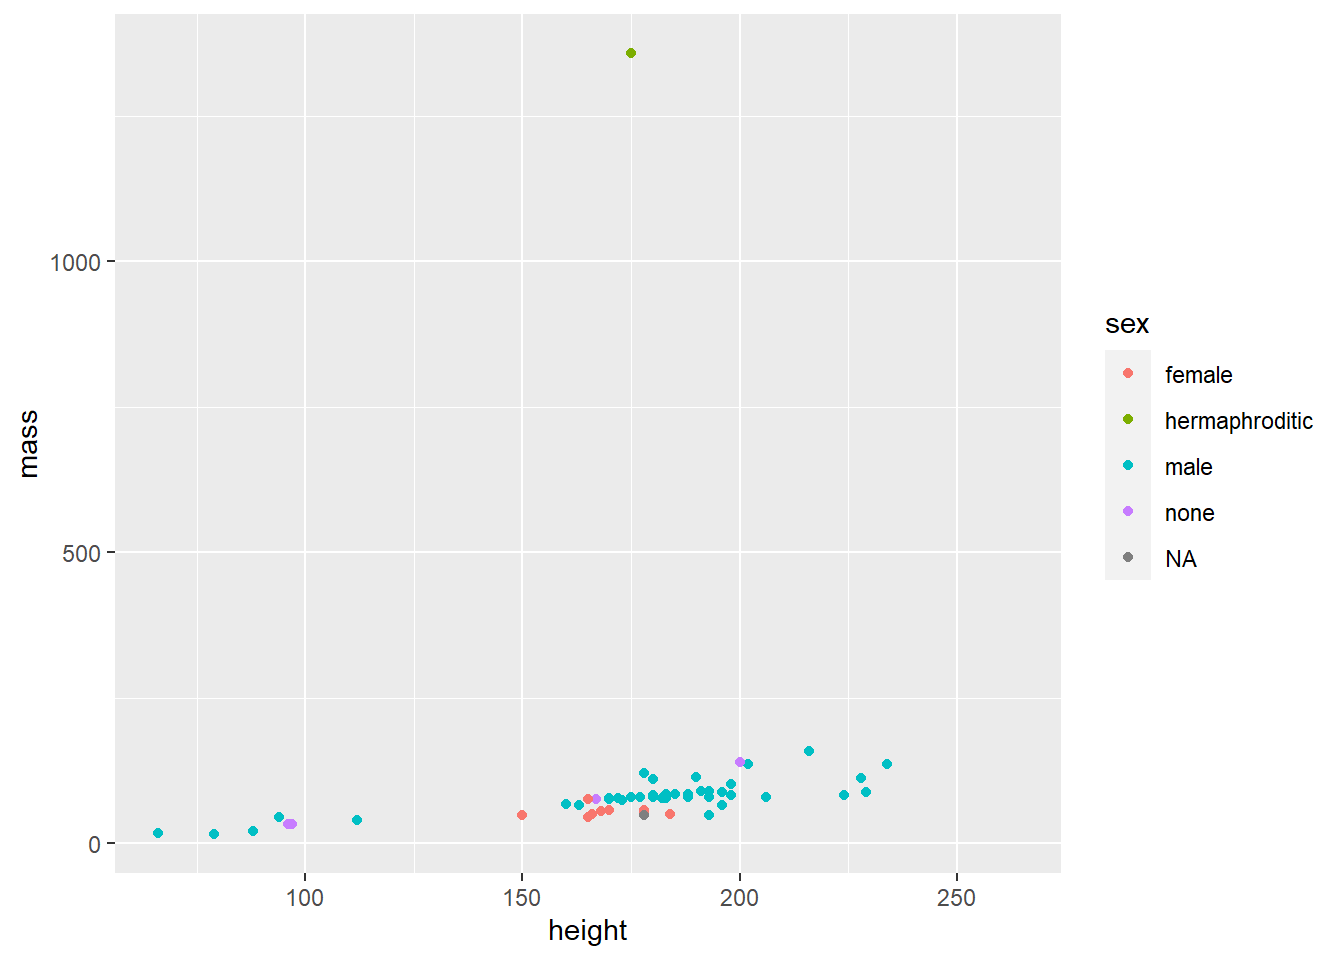
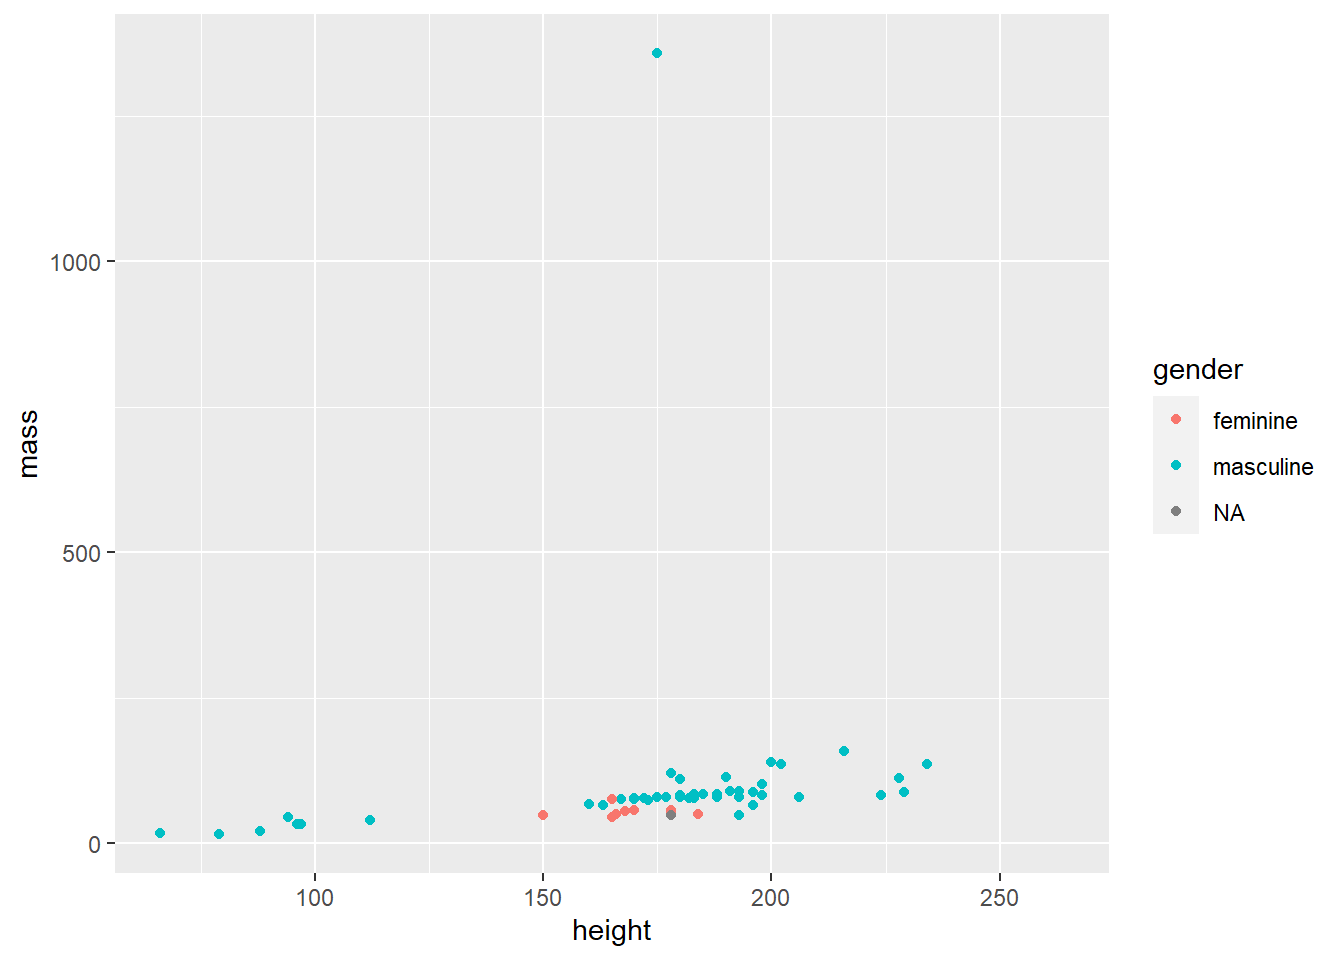
lol

diff --git a/eds-212-day5-session1-q.html b/eds-212-day5-session1-q.html
@@ -148,13 +148,44 @@ pre > code.sourceCode > span > a:first-child::before { text-decoration: underlin
 <details>
 <summary>Show me the code!</summary>
 <div class="sourceCode cell-code" id="cb7"><pre class="sourceCode r code-with-copy"><code class="sourceCode r"><span id="cb7-1"><a href="#cb7-1" aria-hidden="true" tabindex="-1"></a><span class="fu">ggplot</span>(<span class="at">data =</span> starwars, <span class="fu">aes</span>(<span class="at">x =</span> height, <span class="at">y =</span> mass)) <span class="sc">+</span></span>
-<span id="cb7-2"><a href="#cb7-2" aria-hidden="true" tabindex="-1"></a>  <span class="fu">geom_point</span>(<span class="fu">aes</span>(<span class="at">color =</span> sex))</span></code><button title="Copy to Clipboard" class="code-copy-button"><i class="bi"></i></button></pre></div>
+<span id="cb7-2"><a href="#cb7-2" aria-hidden="true" tabindex="-1"></a>  <span class="fu">geom_point</span>(<span class="fu">aes</span>(<span class="at">color =</span> gender))</span></code><button title="Copy to Clipboard" class="code-copy-button"><i class="bi"></i></button></pre></div>
 </details>
 <div class="cell-output-display">
 <p><img src="eds-212-day5-session1-q_files/figure-html/unnamed-chunk-5-1.png" class="img-fluid" width="672"></p>
 </div>
 </div></li>
 </ul>
+<section id="calculate-summary-statistics" class="level2">
+<h2 class="anchored" data-anchor-id="calculate-summary-statistics">Calculate summary statistics</h2>
+<p>use mean() function to find means</p>
+<p>use std() to find standard deviation</p>
+<div class="cell">
+<details>
+<summary>Show me the code!</summary>
+<div class="sourceCode cell-code" id="cb8"><pre class="sourceCode r code-with-copy"><code class="sourceCode r"><span id="cb8-1"><a href="#cb8-1" aria-hidden="true" tabindex="-1"></a>mean_height <span class="ot">&lt;-</span> <span class="fu">mean</span>(starwars<span class="sc">$</span>height, <span class="at">na.rm =</span> <span class="cn">TRUE</span>)</span>
+<span id="cb8-2"><a href="#cb8-2" aria-hidden="true" tabindex="-1"></a></span>
+<span id="cb8-3"><a href="#cb8-3" aria-hidden="true" tabindex="-1"></a>mean_height</span></code><button title="Copy to Clipboard" class="code-copy-button"><i class="bi"></i></button></pre></div>
+</details>
+<div class="cell-output cell-output-stdout">
+<pre><code>[1] 174.358</code></pre>
+</div>
+</div>
+<p>find and store SD of character heights:</p>
+<div class="cell">
+<details>
+<summary>Show me the code!</summary>
+<div class="sourceCode cell-code" id="cb10"><pre class="sourceCode r code-with-copy"><code class="sourceCode r"><span id="cb10-1"><a href="#cb10-1" aria-hidden="true" tabindex="-1"></a>sd_height <span class="ot">&lt;-</span> <span class="fu">sd</span>(starwars<span class="sc">$</span>height, <span class="at">na.rm =</span> <span class="cn">TRUE</span>)</span>
+<span id="cb10-2"><a href="#cb10-2" aria-hidden="true" tabindex="-1"></a>sd_height</span></code><button title="Copy to Clipboard" class="code-copy-button"><i class="bi"></i></button></pre></div>
+</details>
+<div class="cell-output cell-output-stdout">
+<pre><code>[1] 34.77043</code></pre>
+</div>
+</div>
+</section>
+<section id="in-line-reporting-using-code-outputs" class="level2">
+<h2 class="anchored" data-anchor-id="in-line-reporting-using-code-outputs">In-line reporting using code outputs</h2>
+<p>the mean height of star war characters is 174.3580247` cm with a standard deviation of 34.8 cm.</p>
+</section>
 </section>
 
 </main>
